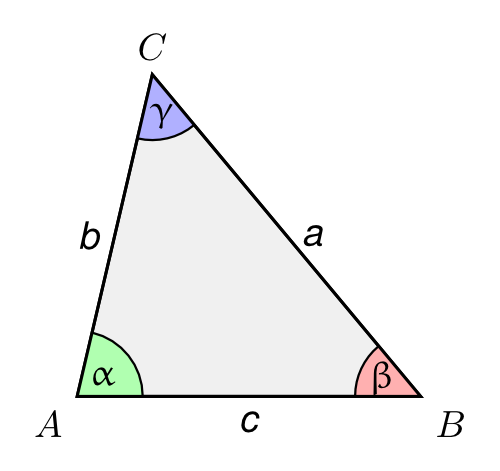
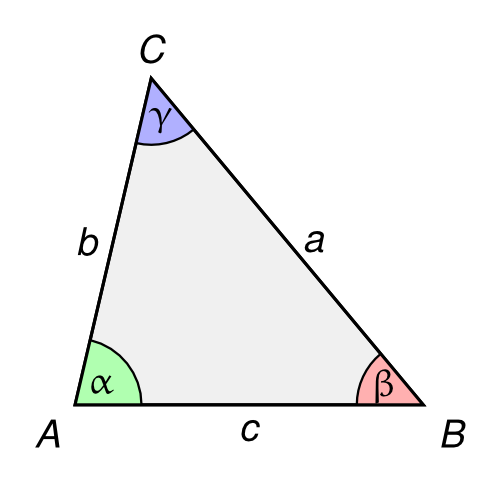
everything in sans-serif

diff --git a/tikz/triangle/triangle.tex b/tikz/triangle/triangle.tex
@@ -16,9 +16,9 @@
     \tkzDefPoint(3.2,0){B}
     \tkzDefPoint(0.7,3){C}
 
-    \tkzLabelPoints[below left](A)
-    \tkzLabelPoints[below right](B)
-    \tkzLabelPoints[above](C)
+    \tkzLabelPoints[below left,font=\sansmath\sffamily](A)
+    \tkzLabelPoints[below right,font=\sansmath\sffamily](B)
+    \tkzLabelPoints[above,font=\sansmath\sffamily](C)
 
     % Draw polygon
     \tkzDrawPolygon[thick,fill=gray!10](A,B,C)
